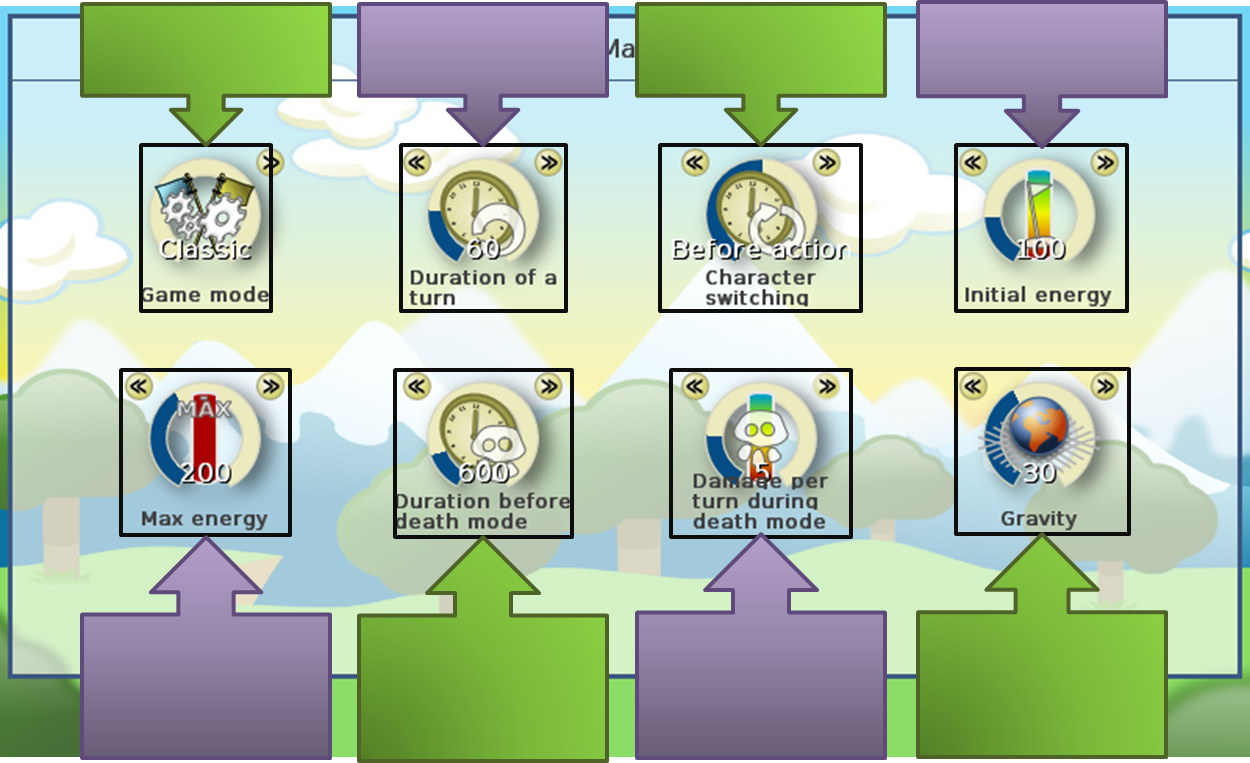
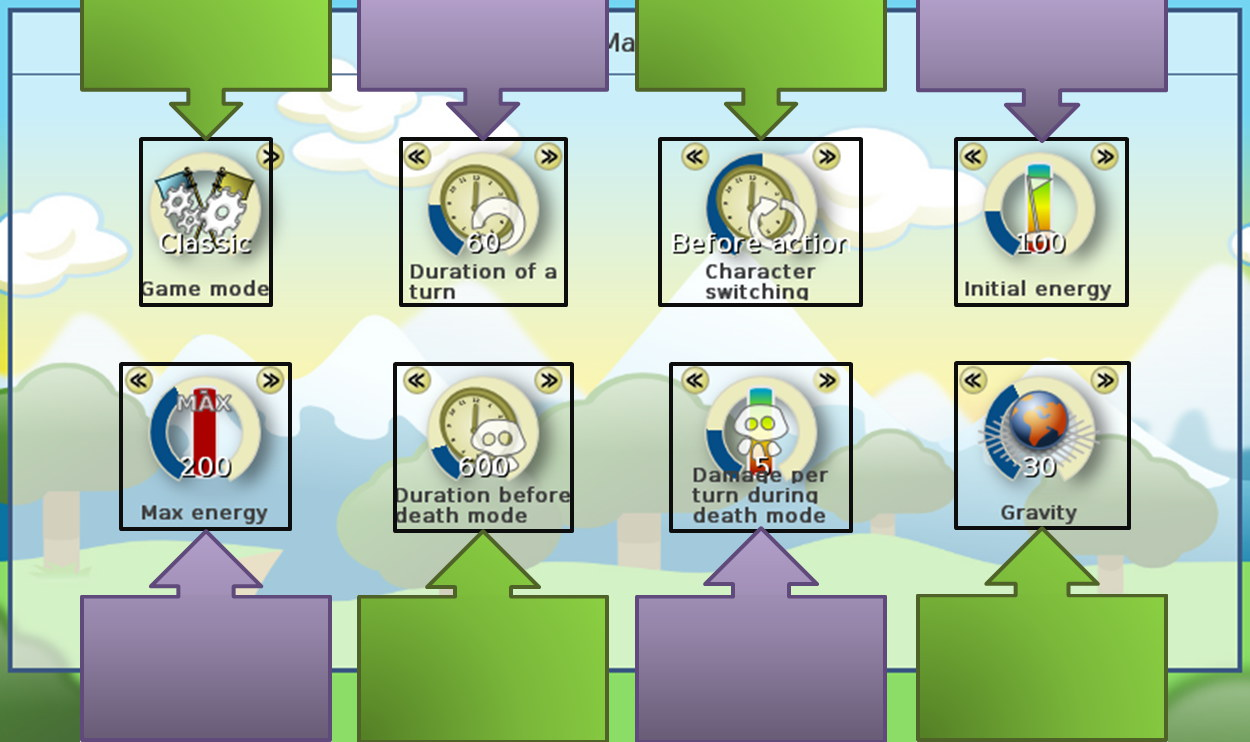
Tweak game mode help image.

diff --git a/src/menu/help_menu.cpp b/src/menu/help_menu.cpp
@@ -101,14 +101,14 @@ HelpMenu::HelpMenu()
 
 # define DEF_GAMEMODE_CAPTIONS_PARAMS 252, Font::FONT_LARGE, DEF_CAPTIONS_PARAMS
   static const FigureWidget::Caption gamemode_captions[] = {
-    { _("Experiment new game rules"), 206, 48, DEF_GAMEMODE_CAPTIONS_PARAMS },
-    { _("Increase this if you are a slow player"), 483, 48, DEF_GAMEMODE_CAPTIONS_PARAMS },
-    { _("When a character can be switched"), 761, 48, DEF_GAMEMODE_CAPTIONS_PARAMS },
-    { _("More energy, more shots needed"), 1038, 48, DEF_GAMEMODE_CAPTIONS_PARAMS },
-    { _("If you like medkits, increase this"), 206, 688, DEF_GAMEMODE_CAPTIONS_PARAMS },
-    { _("Increase this if you like long games"), 482, 688, DEF_GAMEMODE_CAPTIONS_PARAMS },
-    { _("Increase this for faster death mode end"), 761, 688, DEF_GAMEMODE_CAPTIONS_PARAMS },
-    { _("The bigger the faster you'll fall!"), 1042, 688, DEF_GAMEMODE_CAPTIONS_PARAMS },
+    { _("Experiment new game rules"), 206, 45, DEF_GAMEMODE_CAPTIONS_PARAMS },
+    { _("Increase this if you are a slow player"), 483, 45, DEF_GAMEMODE_CAPTIONS_PARAMS },
+    { _("When a character can be switched"), 761, 45, DEF_GAMEMODE_CAPTIONS_PARAMS },
+    { _("More energy, more shots needed"), 1038, 45, DEF_GAMEMODE_CAPTIONS_PARAMS },
+    { _("If you like medkits, increase this"), 206, 668, DEF_GAMEMODE_CAPTIONS_PARAMS },
+    { _("Increase this if you like long games"), 482, 668, DEF_GAMEMODE_CAPTIONS_PARAMS },
+    { _("Increase this for faster death mode end"), 761, 668, DEF_GAMEMODE_CAPTIONS_PARAMS },
+    { _("The bigger the faster you'll fall!"), 1042, 668, DEF_GAMEMODE_CAPTIONS_PARAMS },
   };
   w = new FigureWidget(Point2i(max_w,
                                tabs->GetSizeY() - tabs->GetHeaderHeight()),
